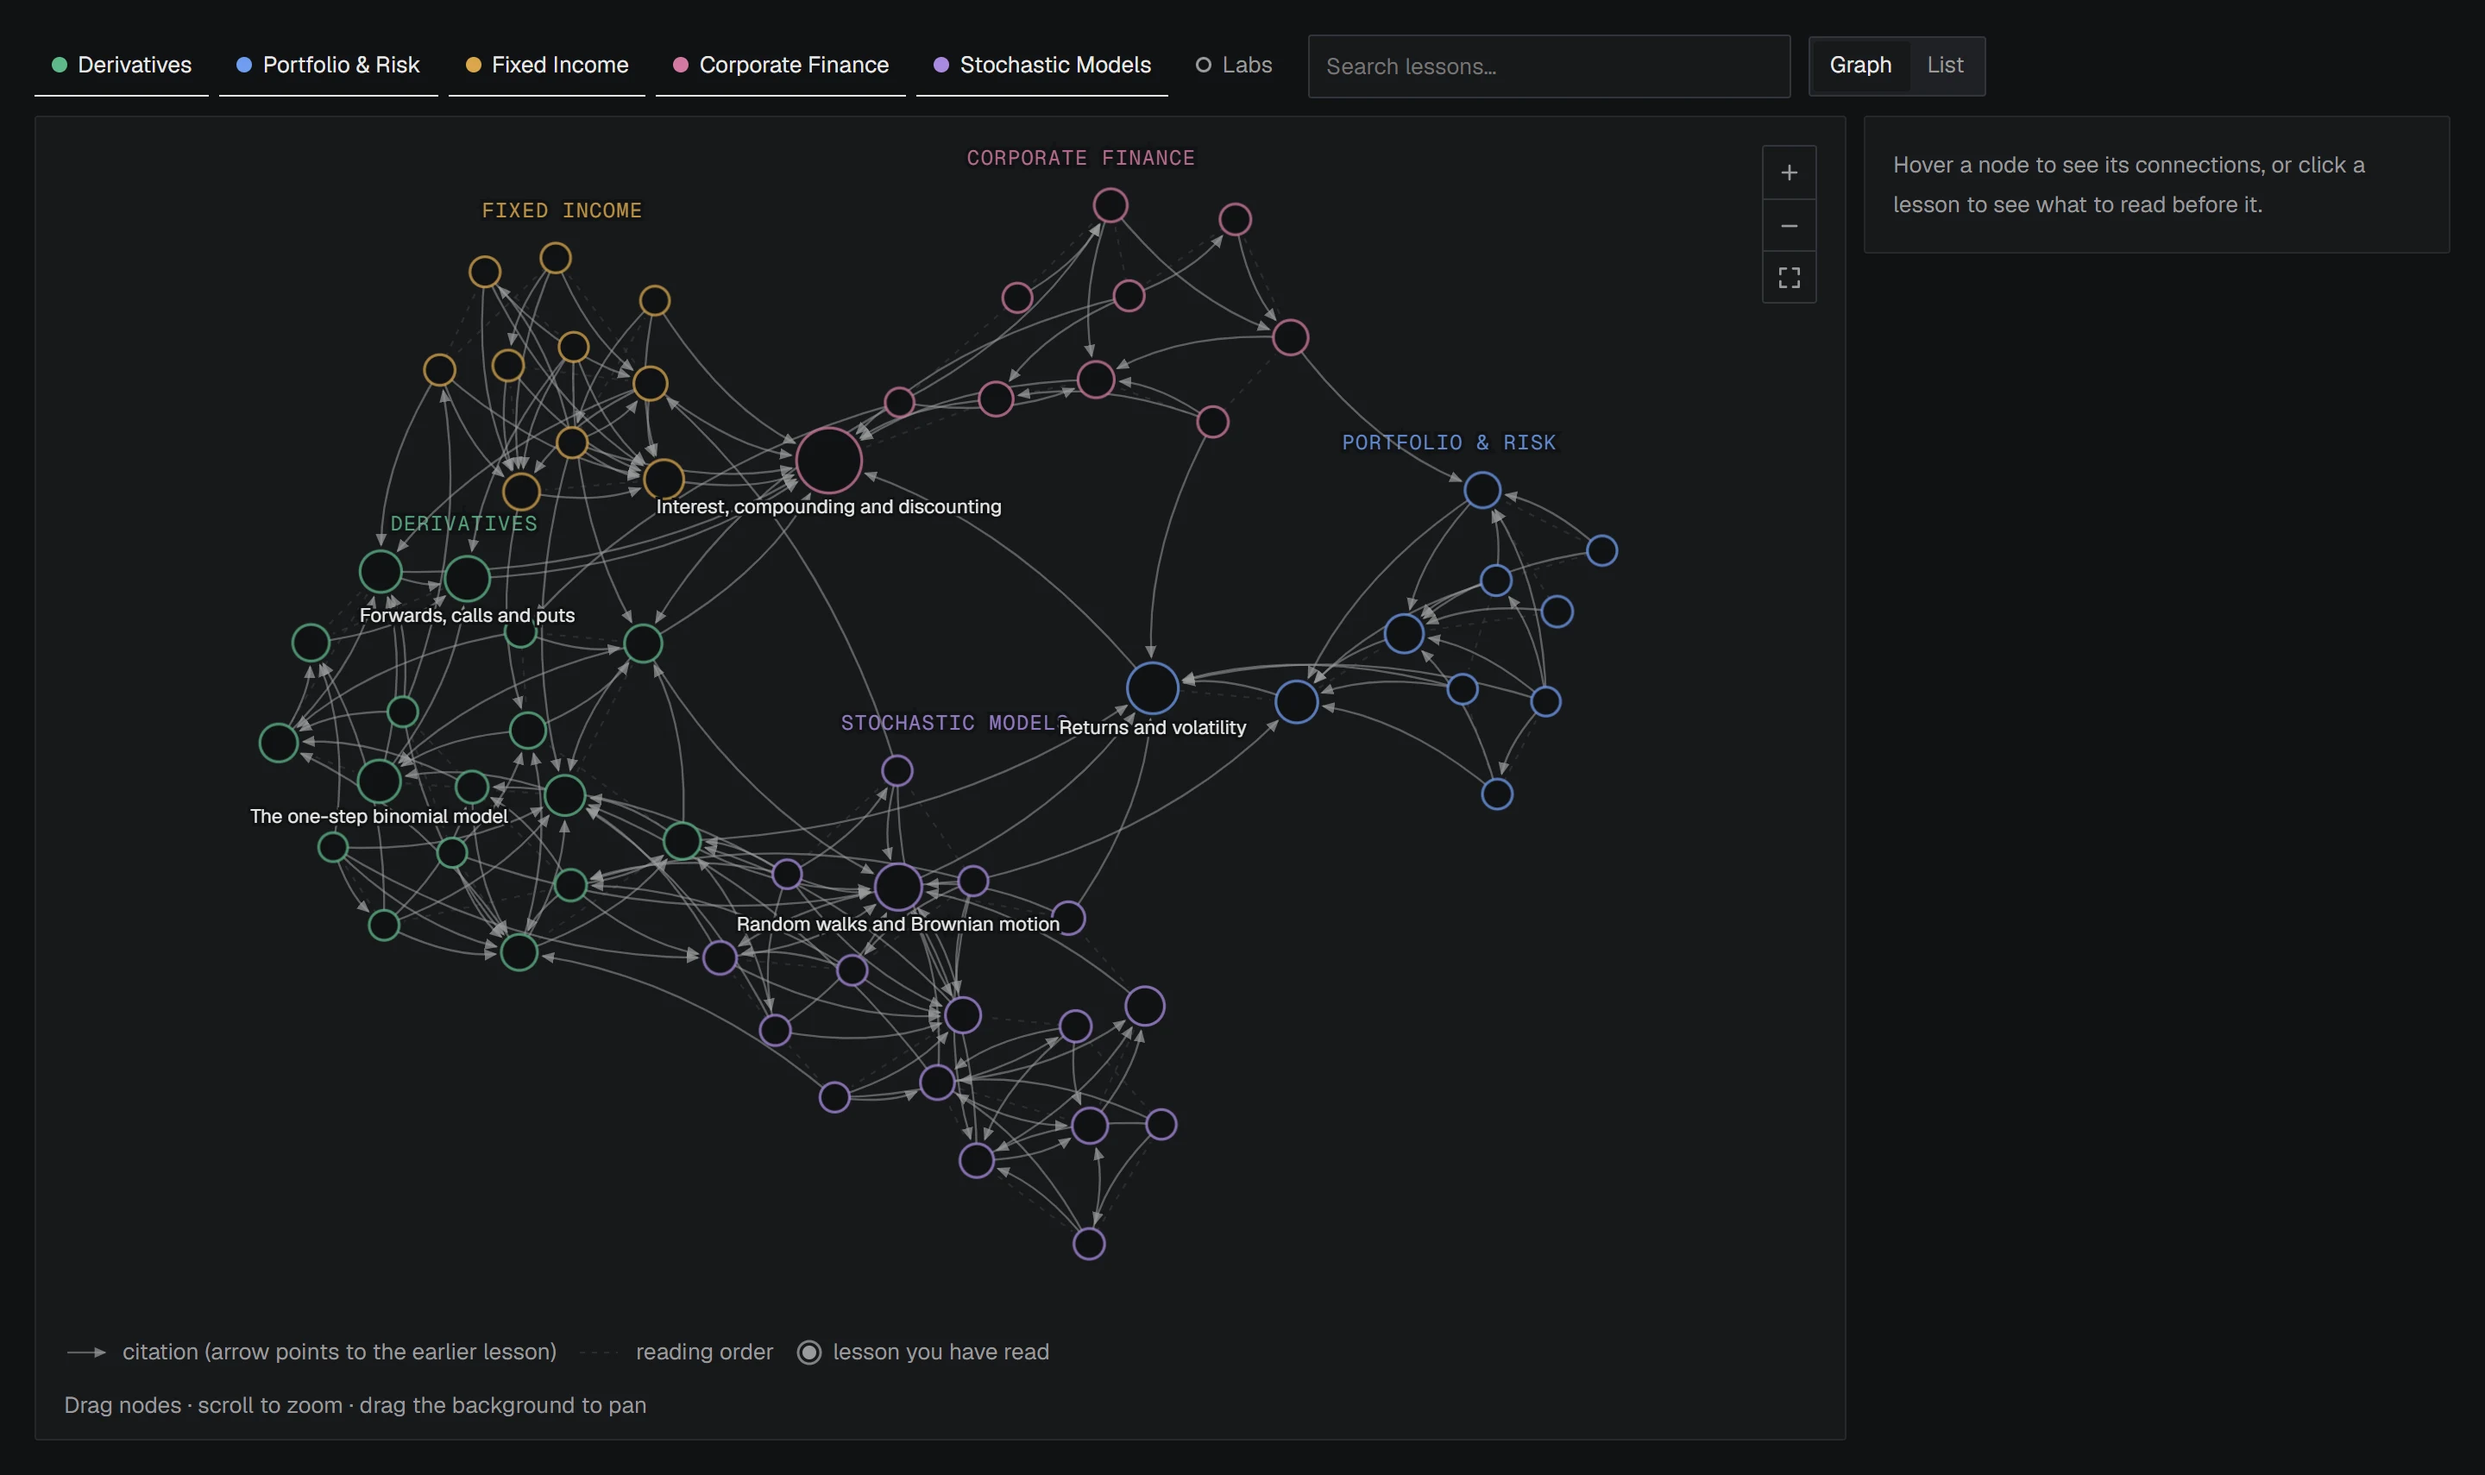
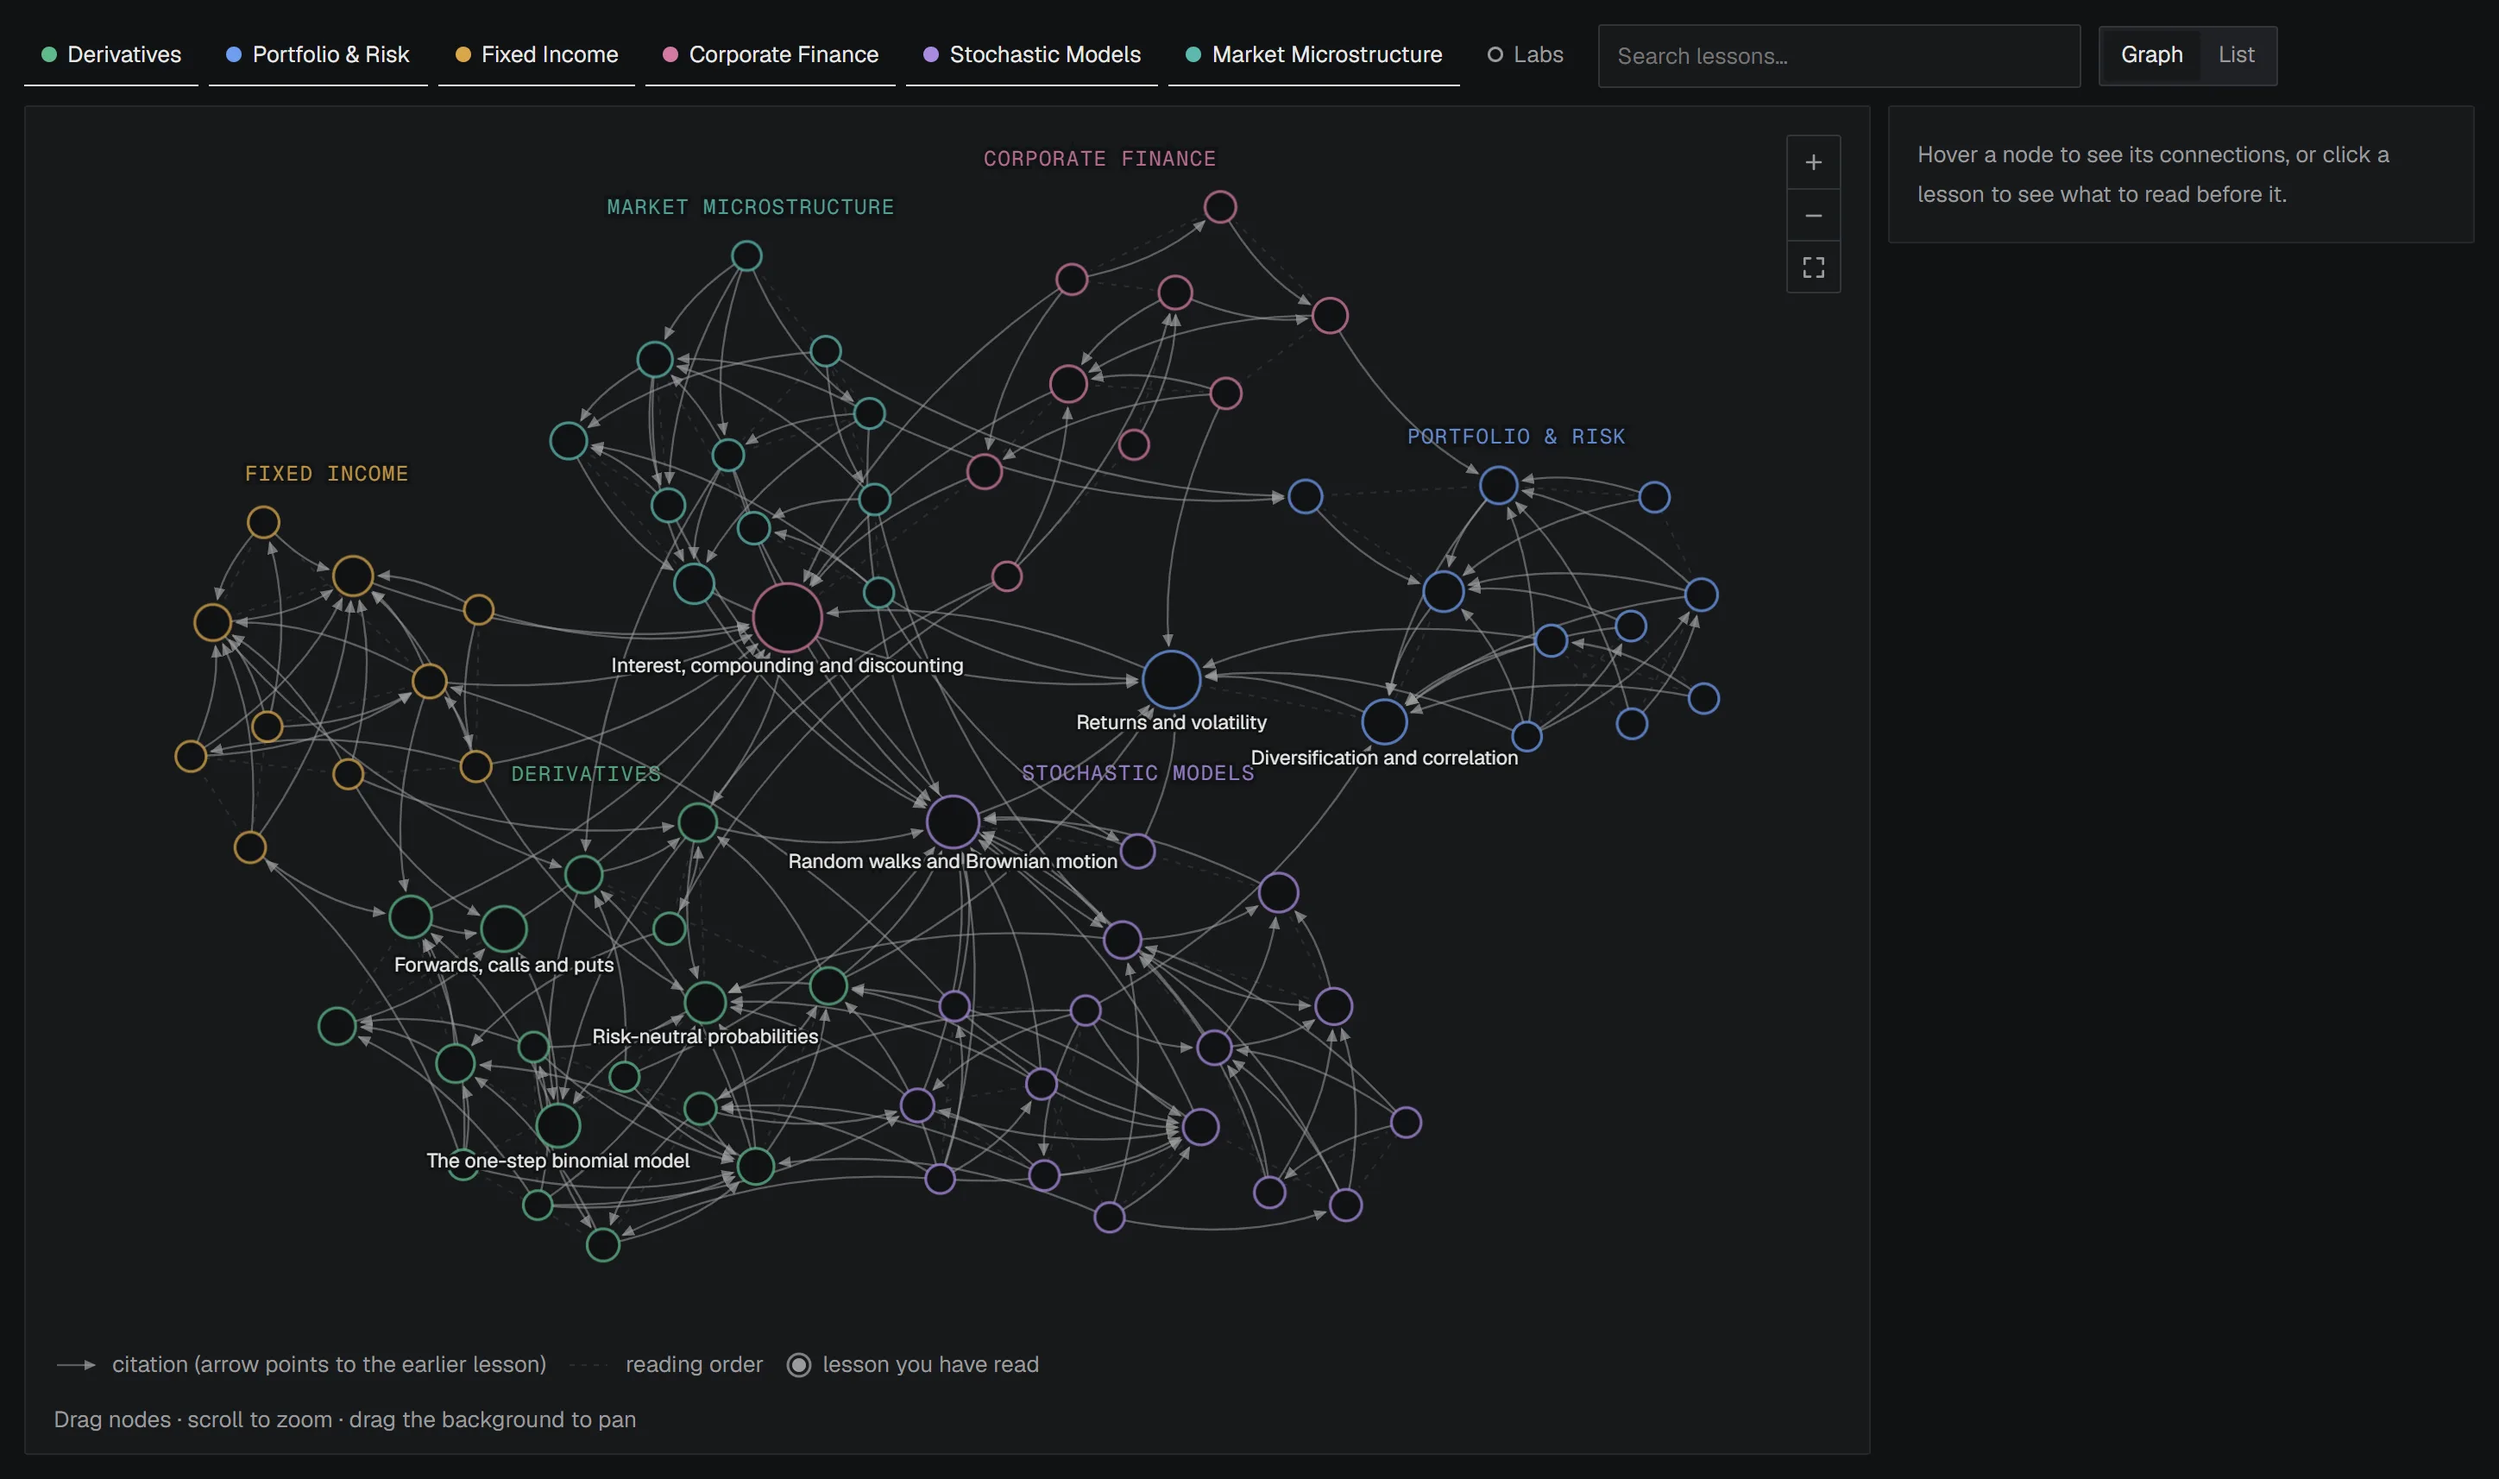
fix

diff --git a/src/modules/registry.ts b/src/modules/registry.ts
@@ -59,6 +59,8 @@ export interface ModuleDef {
   subNav?: ModuleSubNavItem[];
   /// Shown as the large tile of its area on the home page.
   homeFeatured?: boolean;
+  /// Release date (YYYY-MM-DD); the newest modules head the home page.
+  added?: string;
 }
 
 export const CATEGORY_ORDER: ModuleCategory[] = [
@@ -251,6 +253,7 @@ export const modules: ModuleDef[] = [
   },
   {
     id: "interest-rate-swap",
+    added: "2026-10-24",
     path: "/interest-rate-swap",
     navKey: "navInterestRateSwap",
     category: "fixed-income",
@@ -262,6 +265,7 @@ export const modules: ModuleDef[] = [
   },
   {
     id: "callable-bond",
+    added: "2026-10-29",
     intuition: bondIntuition,
     path: "/callable-bond",
     navKey: "navCallableBond",
@@ -274,6 +278,7 @@ export const modules: ModuleDef[] = [
   },
   {
     id: "immunization",
+    added: "2026-10-20",
     path: "/immunization",
     navKey: "navImmunization",
     category: "fixed-income",
@@ -311,6 +316,7 @@ export const modules: ModuleDef[] = [
   },
   {
     id: "fama-french",
+    added: "2026-10-29",
     path: "/fama-french",
     navKey: "navFamaFrench",
     category: "portfolio",
@@ -350,6 +356,7 @@ export const modules: ModuleDef[] = [
   },
   {
     id: "systemic-risk",
+    added: "2026-10-29",
     path: "/systemic-risk",
     navKey: "navSystemicRisk",
     category: "portfolio",
@@ -426,6 +433,7 @@ export const modules: ModuleDef[] = [
   },
   {
     id: "random-walk",
+    added: "2026-10-29",
     path: RANDOM_WALK_PATH,
     navKey: "navRandomWalk",
     category: "stochastic",
@@ -517,6 +525,7 @@ export const modules: ModuleDef[] = [
   },
   {
     id: "market-making",
+    added: "2026-10-29",
     path: "/market-making",
     navKey: "navMarketMaking",
     category: "microstructure",
@@ -593,6 +602,7 @@ export const modules: ModuleDef[] = [
   },
   {
     id: "sandbox",
+    added: "2026-10-24",
     path: "/sandbox",
     navKey: "navSandbox",
     status: "beta",

diff --git a/src/styles/_primitives.scss b/src/styles/_primitives.scss
@@ -1583,31 +1583,22 @@ rect.opt-brush:focus-visible {
 }
 
 // #region Phone tap targets
-// At phone width every control gets a >=32px box; small icons grow their box with
-// padding and cancel it with negative margin, so the layout does not move.
+// Floor for touch controls at phone width; !important beats per-feature compact sizes.
+// Info-tooltip icons and range inputs are exempt via data-layout-allow (their hit area
+// comes from the coarse-pointer ::after and the 22px thumb).
 @include phone {
   button, select, input:not([type="radio"], [type="checkbox"], [type="range"], [type="hidden"]) {
-    min-height: 32px;
+    min-height: 32px !important;
   }
 
-  .brand, .info-tooltip-trigger {
+  .brand, .home-link {
     box-sizing: content-box;
     padding-block: 7px;
     margin-block: -7px;
   }
 
-  .info-tooltip-trigger {
-    padding-inline: 7px;
-    margin-inline: -7px;
-  }
-
-  .slider-input {
-    height: 32px;
-    margin: -9px 0;
-    border-radius: 0;
-    background:
-      linear-gradient(var(--primary), var(--primary)) left center / var(--fill, 0%) 6px no-repeat,
-      linear-gradient(var(--surface-muted), var(--surface-muted)) center / 100% 6px no-repeat;
+  .home-filter {
+    min-width: 32px;
   }
 }
 // #endregion

diff --git a/src/features/home/HomeNews.tsx b/src/features/home/HomeNews.tsx
@@ -1,0 +1,36 @@
+import { useI18n } from "../../i18n";
+import { NEW_MODULES } from "./home.data";
+import { labDescKey } from "./home.model";
+import { MODULE_VIZ } from "./home.viz";
+import HomeLabTile from "./HomeLabTile";
+
+/// The newest modules from the registry's `added` dates, right under the hero.
+export default function HomeNews() {
+  const { t, language } = useI18n();
+  const date = new Intl.DateTimeFormat(language, { month: "short", day: "numeric" });
+  if (!NEW_MODULES.length) return null;
+
+  return (
+    <section className="home-news">
+      <header className="home-section-head">
+        <div>
+          <p className="home-eyebrow">{t("homeNewEyebrow")}</p>
+          <h2 className="home-h2">{t("homeNewTitle")}</h2>
+        </div>
+      </header>
+      <div className="home-news-grid">
+        {NEW_MODULES.map((m) => (
+          <HomeLabTile
+            key={m.id}
+            code={date.format(new Date(`${m.added}T12:00:00Z`))}
+            to={m.path}
+            name={t(m.navKey)}
+            desc={t(labDescKey(m.id))}
+            viz={MODULE_VIZ[m.id]}
+            status={m.status}
+          />
+        ))}
+      </div>
+    </section>
+  );
+}

diff --git a/src/components/charts/DraggableBarsInner.tsx b/src/components/charts/DraggableBarsInner.tsx
@@ -38,9 +38,9 @@ export default function DraggableBarsInner({ values, onChange, min, max, step = 
   const [frozen, setFrozen] = useState<[number, number] | null>(null);
   const live = domain ?? paddedDomain(min, max);
   const [lo, hi] = frozen ?? live;
-  // Room for the widest tick label (≈ 7 px per character at 12 px), so long values aren't clipped on phones.
+  // Room for the widest tick label (≈ 7.5 px per character at 12 px), so long values aren't clipped on phones.
   const fmtTick = (v: number) => (yFormat ? yFormat(v) : String(v));
-  const labelW = Math.max(fmtTick(lo).length, fmtTick(hi).length) * 7 + 12;
+  const labelW = Math.max(fmtTick(lo).length, fmtTick(hi).length) * 7.5 + 14;
   const base = chartMargin(width < 480);
   const margin = { ...base, left: Math.max(base.left, labelW) };
   const innerW = Math.max(0, width - margin.left - margin.right);

diff --git a/src/features/yield-curve/components/NodeTable.tsx b/src/features/yield-curve/components/NodeTable.tsx
@@ -10,7 +10,7 @@ export default function NodeTable({ model }: { model: YieldCurveModel }) {
       {model.nodes.map((node, i) => (
         <div key={node.label} className={`yc-quote-row${i === model.selected ? " is-selected" : ""}`}>
           <button type="button" aria-pressed={i === model.selected} onClick={() => model.setSelected(i)}>{node.label}</button>
-          <input type="range" min={0} max={12} step={0.01} value={node.rate * 100}
+          <input type="range" data-layout-allow="range input: the coarse-pointer thumb is the tap target" min={0} max={12} step={0.01} value={node.rate * 100}
             style={{ "--quote-fill": `${node.rate / 0.12 * 100}%` } as CSSProperties}
             aria-label={`${node.label} ${t("ycParRate")}`}
             onFocus={() => model.setSelected(i)}

diff --git a/src/features/treasury-futures/components/BondBasket.tsx b/src/features/treasury-futures/components/BondBasket.tsx
@@ -13,7 +13,7 @@ function FuturesControl({ value, onChange }: { value: number; onChange: (v: numb
   const { t } = useI18n();
   return <div className="tf-futures">
     <NumberInput label={t("tfFuturesPrice")} value={value} onChange={onChange} min={F_MIN} max={F_MAX} step={0.01} sectionId="net-basis" />
-    <input type="range" className="slider-input" min={F_MIN} max={F_MAX} step={0.25} value={value} aria-label={t("tfFuturesPrice")}
+    <input type="range" className="slider-input" data-layout-allow="range input: the 22px coarse-pointer thumb is the tap target" min={F_MIN} max={F_MAX} step={0.25} value={value} aria-label={t("tfFuturesPrice")}
       style={sliderFill(value, F_MIN, F_MAX)} onChange={(e) => onChange(Number(e.target.value))} />
   </div>;
 }

diff --git a/src/styles/_home.scss b/src/styles/_home.scss
@@ -221,7 +221,9 @@
 // #region Labs
 .home-filters {
   display: flex;
-  gap: 20px;
+  flex-wrap: wrap;
+  gap: 0 20px;
+  min-width: 0;
 }
 
 .home-filter {
@@ -277,6 +279,13 @@
 .home-bento {
   display: grid;
   grid-template-columns: repeat(4, minmax(0, 1fr));
+  border-top: 1px solid var(--rule);
+  border-left: 1px solid var(--rule);
+}
+
+.home-news-grid {
+  display: grid;
+  grid-template-columns: repeat(auto-fit, minmax(200px, 1fr));
   border-top: 1px solid var(--rule);
   border-left: 1px solid var(--rule);
 }

diff --git a/src/features/home/home.data.ts b/src/features/home/home.data.ts
@@ -15,3 +15,9 @@ const firstLesson = trackLessons(guideTrackById("derivatives"))[0];
 
 /// Where a first-time reader begins: the first lesson of the derivatives track.
 export const START_LESSON = { path: guidePath(firstLesson.id), titleKey: firstLesson.titleKey };
+
+/// The most recently released modules, newest first (ties keep registry order).
+export const NEW_MODULES = modules
+  .filter((m) => m.added)
+  .sort((a, b) => b.added!.localeCompare(a.added!))
+  .slice(0, 6);

diff --git a/src/features/home/HomeView.tsx b/src/features/home/HomeView.tsx
@@ -1,5 +1,6 @@
 import { useI18n } from "../../i18n";
 import HomeHero from "./HomeHero";
+import HomeNews from "./HomeNews";
 import HomeStats from "./HomeStats";
 import HomeFeatures from "./HomeFeatures";
 import HomeLabs from "./HomeLabs";
@@ -12,6 +13,7 @@ export function HomeView() {
   return (
     <div className="view-main home-view">
       <HomeHero />
+      <HomeNews />
       <HomeStats />
       <HomeFeatures />
       <HomeLabs />

diff --git a/src/Language/Home.hu.ts b/src/Language/Home.hu.ts
@@ -219,6 +219,8 @@ export const homeHu = {
     homeCategoryGuide: "{{track}} · {{n}} lecke",
     homeGuideTileName: "{{track}} útmutató",
     homeGuideTileDesc: "{{n}} lecke, mindegyik a saját laborjával párosítva.",
+    homeNewEyebrow: "Friss",
+    homeNewTitle: "Újdonságok",
     homeFeaturesEyebrow: "Kiemelt",
     homeFeaturesTitle: "Használatra készült eszközök",
     homeFeatureOpen: "Megnyitás",

diff --git a/src/Language/Home.ts b/src/Language/Home.ts
@@ -220,6 +220,8 @@ export const homeEn = {
     homeCategoryGuide: "{{track}} · {{n}} lessons",
     homeGuideTileName: "{{track}} guide",
     homeGuideTileDesc: "{{n}} lessons, each paired with its lab.",
+    homeNewEyebrow: "Just released",
+    homeNewTitle: "New in the sandbox",
     homeFeaturesEyebrow: "Featured",
     homeFeaturesTitle: "Tools built to be used",
     homeFeatureOpen: "Open",

diff --git a/src/components/SliderDock.tsx b/src/components/SliderDock.tsx
@@ -57,6 +57,7 @@ export default function SliderDock({ sliders, chartSelector }: SliderDockProps) 
         <div className="slider-dock-row">
           <input
             className="slider-input"
+            data-layout-allow="range input: the 22px coarse-pointer thumb is the tap target"
             type="range"
             min={active.min}
             max={active.max}
